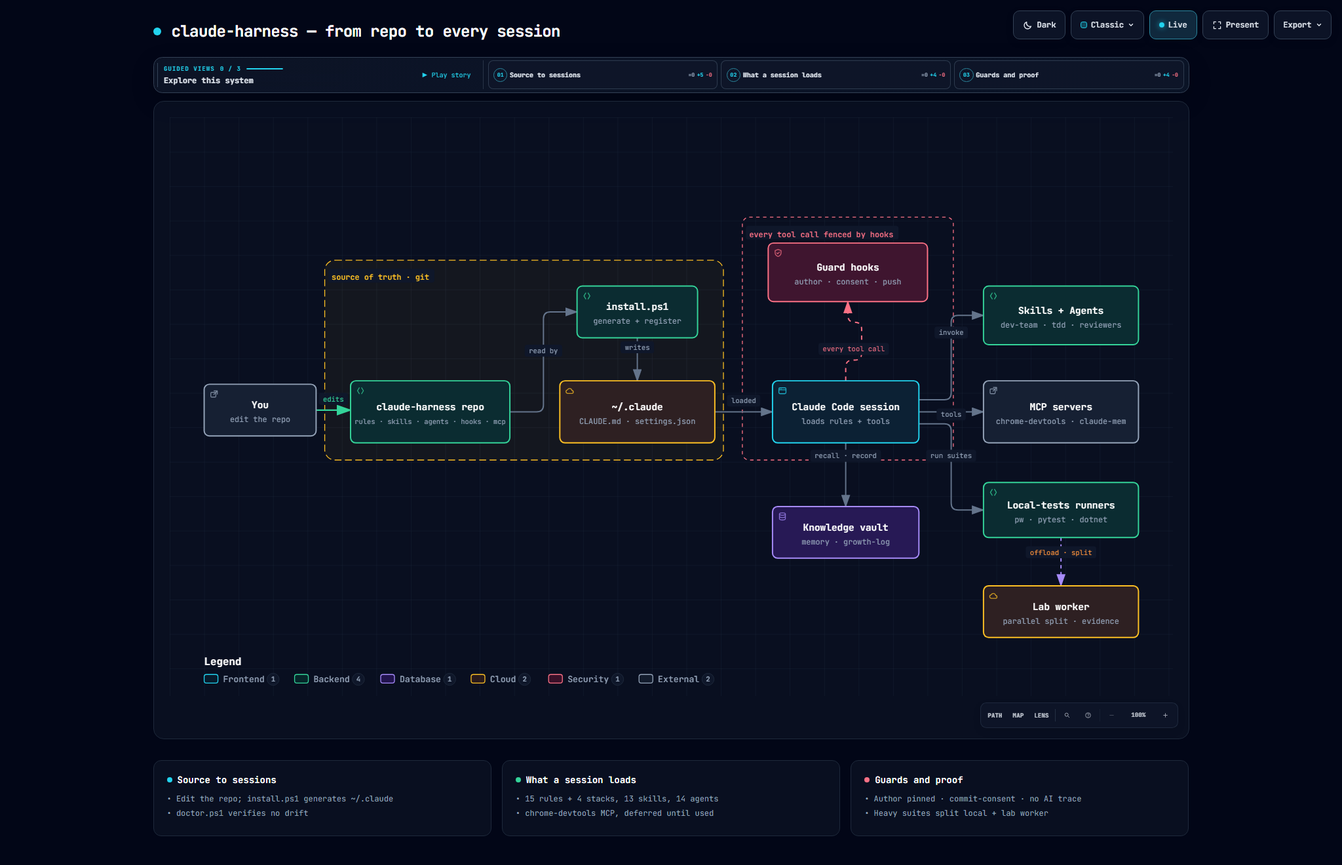
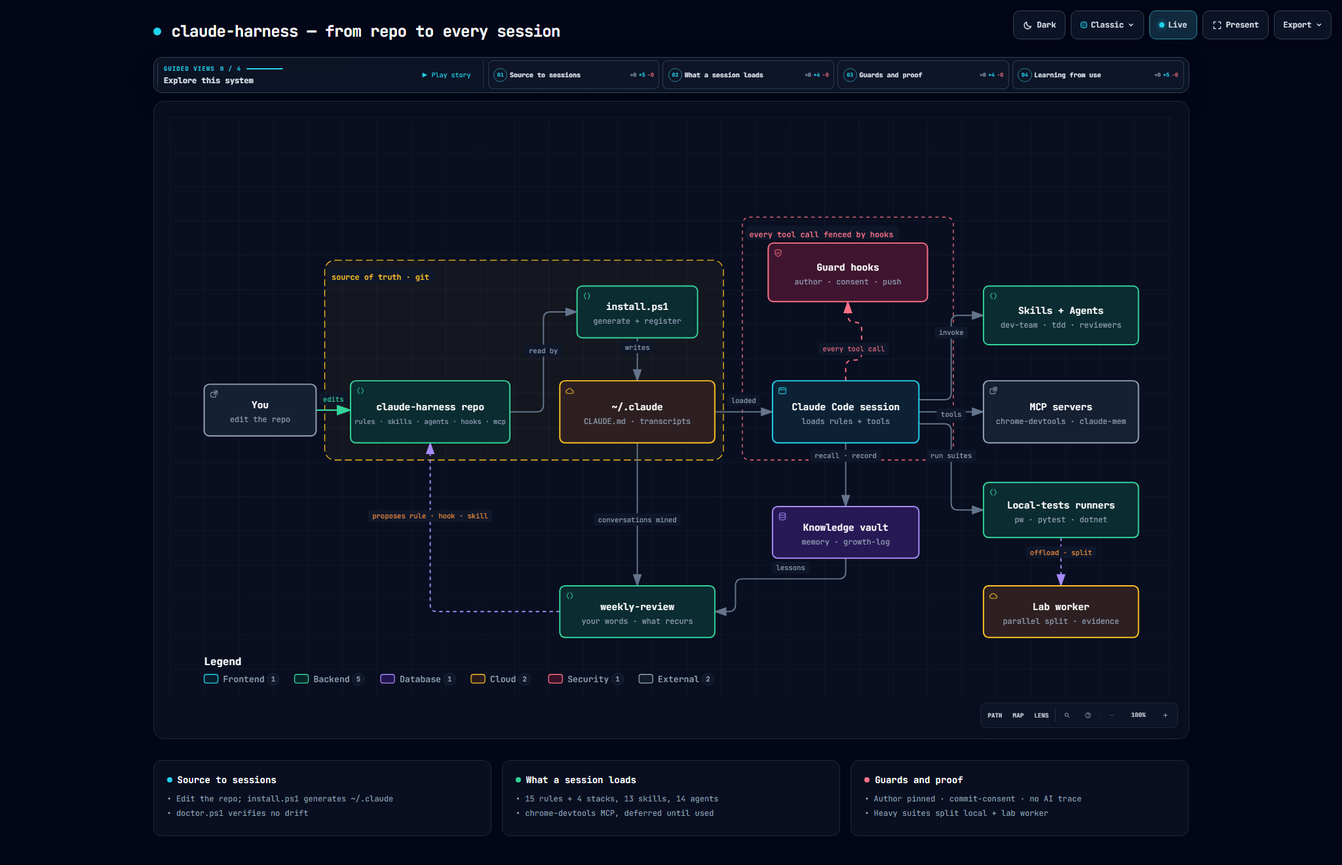
docs(weekly-review): give the miner's run command for cmd too, draw the learning loop (0.22.1)
Windows cmd does not expand ~, so the documented bash path failed there. The
skill and the README now give the cmd form (%USERPROFILE%) next to the
PowerShell one ($HOME).

The architecture diagram now shows the improvement loop: the conversations in
~/.claude and the vault feed weekly-review, which proposes a rule, hook or
skill back to the repo.

diff --git a/docs/assets/harness-architecture.html b/docs/assets/harness-architecture.html
@@ -4959,7 +4959,7 @@
       </div>
     </div>
 
-    <script id="archify-guided-views-data" type="application/json">[{"id":"install","label":"Source to sessions","focus":["author","repo","install","claudedir","session"],"note":"Edit the repo; install.ps1 generates ~/.claude; every session loads it."},{"id":"tools","label":"What a session loads","focus":["session","skills","mcp","runners"],"note":"Rules, skills, agents and MCP servers reach the session."},{"id":"guards","label":"Guards and proof","focus":["session","hooks","runners","worker"],"note":"Hooks fence every tool call; heavy suites split onto the lab worker."}]</script>
+    <script id="archify-guided-views-data" type="application/json">[{"id":"install","label":"Source to sessions","focus":["author","repo","install","claudedir","session"],"note":"Edit the repo; install.ps1 generates ~/.claude; every session loads it."},{"id":"tools","label":"What a session loads","focus":["session","skills","mcp","runners"],"note":"Rules, skills, agents and MCP servers reach the session."},{"id":"guards","label":"Guards and proof","focus":["session","hooks","runners","worker"],"note":"Hooks fence every tool call; heavy suites split onto the lab worker."},{"id":"learn","label":"Learning from use","focus":["session","claudedir","vault","review","repo"],"note":"Weekly, your own words and the vault feed weekly-review, which proposes a rule, hook or skill back to the repo."}]</script>
 
     <script id="archify-i18n-data" type="application/json">{"locale":"en","messages":{"viewer.kind.frontend":"Frontend","viewer.kind.backend":"Backend","viewer.kind.database":"Database","viewer.kind.cloud":"Cloud","viewer.kind.security":"Security","viewer.kind.messagebus":"Message bus","viewer.kind.external":"External","viewer.kind.neutral":"Neutral","viewer.kind.node":"Node","viewer.kind.start":"Start","viewer.kind.active":"Active","viewer.kind.waiting":"Waiting","viewer.kind.decision":"Decision","viewer.kind.success":"Success","viewer.kind.failure":"Failure","viewer.toolbar.actions":"Diagram actions","viewer.theme.toggle.title":"Toggle theme (T)","viewer.theme.toggle":"Toggle color theme","viewer.theme.dark":"Dark","viewer.theme.light":"Light","viewer.preset.choose.title":"Choose visual style (S cycles)","viewer.preset.choose":"Choose visual style","viewer.preset.style":"Style","viewer.preset.menu":"Visual style","viewer.preset.identity":"Visual identity","viewer.preset.cycles":"S cycles","viewer.preset.classic":"Classic","viewer.preset.classic.short":"Classic","viewer.preset.classic.hint":"Stable technical default","viewer.preset.flow":"Signal Flow","viewer.preset.flow.short":"Flow","viewer.preset.flow.hint":"Motion-forward presentation","viewer.preset.blueprint":"Blueprint","viewer.preset.blueprint.hint":"Engineering review","viewer.preset.editorial":"Editorial","viewer.preset.editorial.hint":"Publication and launch notes","viewer.preset.badge.signalFlow":"SIGNAL FLOW","viewer.preset.badge.blueprint":"BLUEPRINT / REV 01","viewer.preset.badge.editorial":"EDITORIAL / FIELD NOTE","viewer.preset.badge.editorialPlate":"ARCHIFY / PLATE 04","viewer.preset.current":"Visual style: {style}. Choose visual style","viewer.motion.live":"Live","viewer.motion.still":"Still","viewer.motion.pause":"Pause motion","viewer.motion.resume":"Resume motion","viewer.motion.reduced":"Motion paused by reduced-motion preference","viewer.motion.hidden":"Motion paused while this page is hidden","viewer.motion.yielding":"Pause motion; currently yielding to {owner}","viewer.motion.yielding.title":"Live preview enabled · yielding to {owner}","viewer.owner.story":"the guided story","viewer.owner.chapter":"the active chapter","viewer.owner.chapterPreview":"the chapter delta preview","viewer.owner.handoff":"the chapter handoff","viewer.owner.route":"Route Probe","viewer.owner.lens":"Semantic Lens","viewer.owner.relationship":"Relationship Preview","viewer.owner.intent":"Intent Trace","viewer.owner.focus":"semantic focus","viewer.owner.legend":"legend preview","viewer.owner.reader":"reader interaction","viewer.present.enter":"Enter presentation stage","viewer.present.enter.title":"Presentation stage (F)","viewer.present.exit":"Exit presentation stage","viewer.present.exit.title":"Exit presentation stage (F or Escape)","viewer.present.present":"Present","viewer.present.exit.label":"Exit","viewer.export.button":"Export","viewer.export.button.title":"Export diagram (E)","viewer.export.diagram":"Export diagram","viewer.export.menu":"Export","viewer.export.subtitle":"Portable, clean outputs","viewer.export.share":"Share","viewer.export.shareCard":"Share Card","viewer.export.routeShareCard":"Route Share Card","viewer.export.reachShareCard":"Reach Share Card","viewer.export.copyShareCard":"Copy Share Card","viewer.export.copyDiagram":"Copy diagram","viewer.export.clipboardPng":"PNG to clipboard","viewer.export.raster":"Raster images","viewer.export.image":"Image","viewer.export.lossless":"Lossless image","viewer.export.compact":"Compact image","viewer.export.modern":"Modern image","viewer.export.vectorMotion":"Vector and motion","viewer.export.vectorMotion.heading":"Vector \u0026 motion","viewer.export.editable":"Editable vector","viewer.export.motion6s":"6s motion","viewer.export.unsupported":"Not supported by this browser","viewer.export.clipboardUnsupported":"Clipboard image write not supported by this browser","viewer.export.clipboardUnsupported.period":"Clipboard image write not supported by this browser.","viewer.export.clipboardUnsupported.short":"Clipboard image write not supported in this browser.","viewer.export.motionUnavailable":"Motion capture unavailable in this browser","viewer.export.webmUnavailable":"WebM unavailable in this browser","viewer.export.failed":"Export failed: {message}","viewer.export.unknownVariant":"Unknown Share Card variant: {variant}","viewer.export.routeRequired":"Trace a route before exporting a Route Share Card","viewer.export.reachRequired":"Trace authored reach before exporting a Reach Share Card","viewer.export.unknown":"unknown","viewer.export.routeFailed":"Route Share Card export failed: {message}","viewer.export.reachFailed":"Reach Share Card export failed: {message}","viewer.export.copyFailed":"Copy failed: {message}","viewer.export.copiedPng":"Copied PNG to clipboard","viewer.export.copiedShare":"Copied Share Card","viewer.export.downloadedShare":"Downloaded Share Card","viewer.export.downloadedRoute":"Downloaded Route Share Card","viewer.export.downloadedReach":"Downloaded Reach Share Card","viewer.export.downloadedWebm":"Downloaded WebM","viewer.export.recording":"Recording 6 seconds of motion…","viewer.export.card.routeSummary.one":"Route: {source} → {target} · {count} directed hop","viewer.export.card.routeSummary.other":"Route: {source} → {target} · {count} directed hops","viewer.export.card.reachSummary":"Authored {direction} from {origin} · {nodes} · {links} · max {hops}","viewer.export.card.node.one":"{count} node","viewer.export.card.node.other":"{count} nodes","viewer.export.card.link.one":"{count} link","viewer.export.card.link.other":"{count} links","viewer.export.card.hop.one":"{count} hop","viewer.export.card.hop.other":"{count} hops","viewer.export.card.routeBadge":"ARCHIFY · ROUTE · {hops}","viewer.export.card.reachBadge":"ARCHIFY · {direction} REACH","viewer.export.card.defaultBadge":"ARCHIFY · {preset} · {theme}","viewer.export.direction.upstream":"Upstream","viewer.export.direction.downstream":"Downstream","viewer.export.error.canvasUnavailable":"Canvas unavailable for {label}","viewer.export.error.contextUnavailable":"2D canvas context unavailable for {label}","viewer.export.error.toBlobUnavailable":"canvas.toBlob unavailable for {label}","viewer.export.error.toBlobNull":"canvas.toBlob returned no data for {label}","viewer.export.error.variantsCombined":"Share Card variants cannot be combined","viewer.export.error.viewerState":"Share Card export could not remove temporary viewer state","viewer.export.error.routeState":"Route Card export could not preserve the resolved route safely","viewer.export.error.reachState":"Reach Card export could not preserve authored reach safely","viewer.export.error.webmRequirements":"WebM motion export requires a trace animation and browser MediaRecorder support","viewer.export.error.mediaRecorder":"MediaRecorder failed","viewer.export.error.emptyWebm":"MediaRecorder produced an empty WebM","viewer.export.error.webmBackground":"SVG background could not be loaded for WebM export","viewer.guided.region":"Guided diagram views","viewer.guided.previous":"Previous guided view","viewer.guided.previous.title":"Previous guided view ([)","viewer.guided.next":"Next guided view","viewer.guided.next.title":"Next guided view (])","viewer.guided.views":"Guided views","viewer.guided.explore":"Explore this system","viewer.guided.intro":"Step through curated paths without changing the source diagram.","viewer.guided.trail":"Story trail","viewer.guided.beat":"Beat","viewer.guided.nextBeat":"Next","viewer.guided.play":"Play guided story","viewer.guided.play.title":"Play guided story (P)","viewer.guided.pause":"Pause guided story","viewer.guided.pause.title":"Pause guided story (P)","viewer.guided.replay":"Replay guided story","viewer.guided.replay.title":"Replay guided story (P)","viewer.guided.playStory":"Play story","viewer.guided.pauseStory":"Pause","viewer.guided.replayStory":"Replay story","viewer.guided.motionUnavailable":"Story playback unavailable while motion is Still","viewer.guided.enableMotion":"Switch motion to Live to play the guided story","viewer.guided.selectBeatLink":"Select a Story Beat to copy its exact link","viewer.guided.copyMoment":"Copy moment","viewer.guided.momentCopied":"Moment link copied","viewer.guided.momentCopyFailed":"Could not copy story moment link","viewer.guided.copied":"Copied","viewer.guided.copyFailed":"Copy failed","viewer.guided.showAll":"Show all","viewer.guided.showAll.aria":"Show entire diagram","viewer.guided.chapters":"Story chapters","viewer.guided.storyTrail":"Story trail for {label}: {count} beats","viewer.guided.chapter.open":"Open chapter {index} of {total}: {label}, {count} stops","viewer.guided.chapter.current":"Current chapter {index} of {total}: {label}, {count} stops","viewer.guided.chapter.selectedNodes":"{count} selected nodes","viewer.guided.chapter.stops":"{count} stops","viewer.guided.chapter.stop.one":"{count} stop","viewer.guided.chapter.stop.other":"{count} stops","viewer.guided.chapter.current.title":"{label} — current chapter, {count} stops","viewer.guided.chapter.delta.expanded":"{stay} stay, {enter} enter, {leave} leave","viewer.guided.chapter.delta.aria":"Open chapter {index} of {total}: {label}. Chapter focus delta: {delta}","viewer.guided.chapter.delta.title":"{label} — {delta} chapter focus","viewer.guided.handoff":"{from} → {to} · via {label}","viewer.guided.share.chapter":"Chapter {index} / {total}","viewer.guided.share.initial":"Chapter 01 / 01","viewer.guided.share.default":"Guided chapter","viewer.guided.state.ready":"Ready","viewer.guided.state.playing":"Playing","viewer.guided.state.settled":"Settled","viewer.guided.state.paused":"Paused","viewer.guided.state.pinned":"Pinned","viewer.guided.state.still":"Still","viewer.guided.share.step":"Step {index} / {total} · {label}","viewer.guided.share.staticMoment":"{step} · Static moment","viewer.guided.share.complete":"{count} steps complete · {note}","viewer.guided.share.settled":"Path settled for reading.","viewer.guided.share.staticPath":"{count} steps · Static path","viewer.guided.share.ready":"{count} steps · Ready","viewer.guided.share.aria":"{state} chapter {index} of {total}: {label}. {beat}. {route}","viewer.guided.beat.start":"Beat {index} / {total} · {label} · starting point","viewer.guided.beat.forward":"Beat {index} / {total} · {from} → {to}","viewer.guided.beat.reverse":"Beat {index} / {total} · {from} → {to} · reverse authored link","viewer.guided.beat.multiple":"Beat {index} / {total} · {from} ⇄ {to} · {count} authored links","viewer.guided.beat.group":"Beat {index} / {total} · {from} · {to} · grouped · no direct link","viewer.guided.beat.aria.prefix":"Story beat {index} of {total}: {label}. ","viewer.guided.beat.aria.start":"Starting point.","viewer.guided.beat.aria.forward":"From {from} through one authored forward relationship.","viewer.guided.beat.aria.reverse":"From {from}; the authored relationship points from {to} to {from}.","viewer.guided.beat.aria.multiple":"From {from} through {count} authored relationships; shown without arbitrary motion.","viewer.guided.beat.aria.group":"Grouped from {from} with no direct authored relationship.","viewer.guided.caption.start":"Starting point","viewer.guided.caption.grouped":"Grouped transition · no direct authored link","viewer.guided.caption.more":" +{count} more","viewer.guided.caption.reverse":"Reverse authored relationship","viewer.guided.caption.relationships":"{count} authored relationships","viewer.guided.caption.relationship":"Authored relationship","viewer.guided.caption.direction":"authored direction: {from} → {to}","viewer.guided.caption.starting":"Authored starting point","viewer.guided.beatLink":"Copy link to current story moment: Beat {index} of {total}: {label}","viewer.guided.noStory":"This diagram has no authored guided story.","viewer.guide.eyebrow":"Diagram guide","viewer.guide.close":"Close diagram guide","viewer.guide.inspecting":"Inspecting compiled semantics","viewer.guide.actions":"Diagram exploration actions","viewer.guide.find":"Find any node","viewer.guide.find.hint":"Search labels, responsibilities, kinds, and stable IDs.","viewer.guide.route":"Trace a route","viewer.guide.route.aria":"Trace a directed route","viewer.guide.route.hint":"Ask how two semantic nodes connect in authored direction.","viewer.guide.map":"See the whole system","viewer.guide.map.hint":"Open Semantic Radar with a live viewport and stable nodes.","viewer.guide.lens":"Compare semantic kinds","viewer.guide.lens.hint":"Count roles, reveal their traffic, and compare direct authored links.","viewer.guide.story":"Play the guided story","viewer.guide.story.hint":"Walk the authored chapters and real relationships.","viewer.guide.present":"Enter Presentation Stage","viewer.guide.present.hint":"Give the live diagram the viewport without changing export.","viewer.guide.shortcuts":"Additional keyboard shortcuts","viewer.guide.shortcut.export":"Export","viewer.guide.shortcut.theme":"Theme","viewer.guide.shortcut.style":"Style","viewer.guide.shortcut.reset":"Reset","viewer.guide.shortcut.zoomIn":"Zoom in","viewer.guide.shortcut.zoomOut":"Zoom out","viewer.guide.shortcut.close":"Close","viewer.guide.facts":"{nodes} · {relationships} · {views}","viewer.guide.fact.node.one":"{count} semantic node","viewer.guide.fact.node.other":"{count} semantic nodes","viewer.guide.fact.relationship.one":"{count} relationship","viewer.guide.fact.relationship.other":"{count} relationships","viewer.guide.fact.view.one":"{count} guided view","viewer.guide.fact.view.other":"{count} guided views","viewer.guide.story.available.one":"Walk {count} authored chapter and its real relationships.","viewer.guide.story.available.other":"Walk {count} authored chapters and their real relationships.","viewer.guide.story.unavailable":"No authored guided story in this diagram.","viewer.guide.open":"Open diagram guide","viewer.guide.noStory":"This diagram has no authored guided story.","viewer.finder.title":"Find a node","viewer.finder.close":"Close node finder","viewer.finder.placeholder":"Search labels or IDs","viewer.finder.search":"Search diagram nodes","viewer.finder.results":"Diagram nodes","viewer.finder.empty":"No matching nodes","viewer.finder.result.focus":"Focus {label}","viewer.finder.result.routeStart":"Choose {label} as route start","viewer.finder.result.routeTarget":"Choose {label} as route destination, {links}","viewer.finder.status.empty":"No matching nodes","viewer.finder.status.count.one":"{count} matching node","viewer.finder.status.count.other":"{count} matching nodes","viewer.finder.noun.nodes":"nodes","viewer.finder.link.one":"{count} link","viewer.finder.link.other":"{count} links","viewer.finder.result.focus.one":"Focus {label}, {count} related connection","viewer.finder.result.focus.other":"Focus {label}, {count} related connections","viewer.finder.status.filtered":"{visible} of {available} {noun}","viewer.finder.status.all":"{available} {noun}","viewer.passport.eyebrow":"Semantic passport","viewer.passport.metadata":"Node metadata","viewer.passport.evidence":"Verified source evidence","viewer.passport.verified":"Verified source","viewer.passport.reach":"Authored reach","viewer.passport.reach.trace":"Trace authored reachability","viewer.passport.upstream":"Upstream","viewer.passport.downstream":"Downstream","viewer.passport.upstream.trace":"Trace upstream authored reachability","viewer.passport.downstream.trace":"Trace downstream authored reachability","viewer.passport.close":"Close semantic passport","viewer.passport.copy":"Copy link","viewer.passport.copy.focus":"Copy link to focused node","viewer.passport.relations":"Relations","viewer.passport.relations.show":"Show connected relationships","viewer.passport.relations.hide":"Hide connected relationships","viewer.passport.relations.list":"Connected relationships","viewer.passport.copyRelation":"Copy relation","viewer.passport.copyNode":"Copy node","viewer.passport.copyPinned":"Copy link to pinned relationship","viewer.passport.copySource":"Copy link to source node","viewer.passport.copy.focused.success":"Focused node link copied","viewer.passport.copy.pinned.success":"Pinned relationship link copied","viewer.passport.copy.focused.failed":"Could not copy focused node link","viewer.passport.copy.pinned.failed":"Could not copy pinned relationship link","viewer.passport.relationship.none":"No connected relationships","viewer.passport.relationship.count.one":"{count} relation","viewer.passport.relationship.count.other":"{count} relations","viewer.passport.relationship.show.one":"Show {count} connected relationship","viewer.passport.relationship.show.other":"Show {count} connected relationships","viewer.passport.relationship.summary":"{out} outgoing · {in} incoming{loops}","viewer.passport.relationship.loops":" · {count} loop","viewer.passport.relationship.explorer":"Direct relationship explorer","viewer.passport.relationship.help":"Use arrow keys to explore relationships. Press Enter or Space to pin details; Escape clears.","viewer.passport.relationship.loopsBack":"loops back","viewer.passport.relationship.connectsTo":"connects to","viewer.passport.relationship.connectsFrom":"connects from","viewer.passport.relationship.pinned":"Pinned relationship · {from} → {to} · {label}","viewer.passport.relationship.inspect":"Inspect relationship {index} of {total}: {from} to {to}, {label}. Press Enter for details.","viewer.passport.relationship.group.out":"Outgoing","viewer.passport.relationship.group.in":"Incoming","viewer.passport.relationship.group.loop":"Self loops","viewer.passport.relationship.row":"{group}: {relationship}, {neighbor}","viewer.passport.relationship.direction.out":"OUT →","viewer.passport.relationship.direction.in":"← IN","viewer.passport.relationship.direction.loop":"LOOP","viewer.passport.sourceCount.one":"{count} verified source reference","viewer.passport.sourceCount.other":"{count} verified source references","viewer.passport.sourceMarker":"SRC","viewer.passport.beacon.one":"{count} verified source; focus this node to inspect","viewer.passport.beacon.other":"{count} verified sources; focus this node to inspect","viewer.passport.repository.open":"Open verified repository revision {revision}","viewer.passport.source.open":"Open verified source {path} at revision {revision}","viewer.passport.source.openLink":"Open ↗","viewer.passport.reach.upstream.one":"Trace {count} upstream authored node","viewer.passport.reach.upstream.other":"Trace {count} upstream authored nodes","viewer.passport.reach.downstream.one":"Trace {count} downstream authored node","viewer.passport.reach.downstream.other":"Trace {count} downstream authored nodes","viewer.passport.reach.noUpstream":"No upstream authored nodes","viewer.passport.reach.noDownstream":"No downstream authored nodes","viewer.passport.reach.status":"{direction} · {nodes} nodes · {links} links · max {hops} hops","viewer.route.eyebrow":"Route probe","viewer.route.start":"Choose a start node","viewer.route.start.find":"Find start","viewer.route.start.find.aria":"Find a route start","viewer.route.copy":"Copy link","viewer.route.copy.aria":"Copy link to traced route","viewer.route.clear":"Clear","viewer.route.clear.aria":"Clear route probe","viewer.route.traced":"Traced route","viewer.route.pickTwo":"Pick two semantic nodes on the diagram","viewer.route.pickOne":"Pick a semantic node on the diagram","viewer.route.controls":"Route journey controls","viewer.route.previous":"Previous route position","viewer.route.play":"Play route journey","viewer.route.pause":"Pause route journey","viewer.route.replay":"Replay route journey","viewer.route.next":"Next route position","viewer.route.journey":"Journey","viewer.route.pause.label":"Pause","viewer.route.replay.label":"Replay","viewer.route.overview":"Overview","viewer.route.overview.aria":"Show complete route overview","viewer.route.instructions":"Choose the source, then the destination. Direction matters.","viewer.route.destination":"Choose a destination from {label}","viewer.route.destination.find":"Find target","viewer.route.destination.find.aria":"Find a reachable route destination","viewer.route.differentDestination":"Choose a different destination","viewer.route.distinct":"A route needs two distinct semantic nodes.","viewer.route.unreachable":"No directed route to {label}","viewer.route.unreachable.detail":"{target} is not reachable from {source}. Pick a highlighted destination.","viewer.route.start.instructions":"Select the source. The next step will reveal only directed destinations.","viewer.route.copy.success":"Traced route link copied","viewer.route.copy.failed":"Could not copy traced route link","viewer.route.position":"Route position {index} of {total}: {label}","viewer.route.step":"Step {index} of {total} · {phase} · {label}","viewer.route.motionRequired":"Automatic journey requires Live motion","viewer.route.trigger.clear":"Clear traced route","viewer.route.overview.status":"{nodes} · {hops} · shortest authored route","viewer.route.overview.node.one":"{count} node","viewer.route.overview.node.other":"{count} nodes","viewer.route.overview.hop.one":"{count} directed hop","viewer.route.overview.hop.other":"{count} directed hops","viewer.route.phase.playing":"Playing","viewer.route.phase.complete":"Complete","viewer.route.phase.inspecting":"Inspecting","viewer.route.destination.count.one":"{count} directed destination available. Pick a highlighted node.","viewer.route.destination.count.other":"{count} directed destinations available. Pick a highlighted node.","viewer.route.noOutgoing":"No outgoing route starts here. Clear and choose another source.","viewer.route.result.title":"{source} to {target}","viewer.route.finder.source.title":"Choose route start","viewer.route.finder.source.placeholder":"Search route sources","viewer.route.finder.source.empty":"No matching route sources","viewer.route.finder.source.results":"Nodes that can start a route","viewer.route.finder.source.noun":"route sources","viewer.route.finder.source.badge":"start","viewer.route.finder.target.title":"Destination from {label}","viewer.route.finder.target.placeholder":"Search reachable destinations","viewer.route.finder.target.empty":"No matching reachable destinations","viewer.route.finder.target.results":"Reachable route destinations","viewer.route.finder.target.noun":"reachable destinations","viewer.route.hop.one":"{count} hop","viewer.route.hop.other":"{count} hops","viewer.lens.eyebrow":"Semantic lens","viewer.lens.title":"Compare system roles","viewer.lens.close":"Close semantic lens","viewer.lens.instruction":"Choose up to two semantic kinds. One reveals its real traffic; two compare only direct authored relationships.","viewer.lens.kinds":"Semantic kinds","viewer.lens.choose":"Choose a kind to inspect its nodes and touching relationships.","viewer.lens.copy":"Copy link to semantic lens","viewer.lens.clear":"Clear semantic lens","viewer.lens.open":"Open semantic lens","viewer.lens.openActive":"Open active semantic lens","viewer.lens.legend":"Semantic legend","viewer.lens.legend.inspect.one":"Inspect {label}, {count} node","viewer.lens.legend.inspect.other":"Inspect {label}, {count} nodes","viewer.lens.kind.count.one":"{label}, {count} node","viewer.lens.kind.count.other":"{label}, {count} nodes","viewer.lens.compare.one":"{first} → {second}: {forward} · {second} → {first}: {reverse} · {count} direct relationship","viewer.lens.compare.other":"{first} → {second}: {forward} · {second} → {first}: {reverse} · {count} direct relationships","viewer.lens.single":"{nodes} · {relationships} · connected peers remain visible","viewer.lens.node.one":"{count} {label} node","viewer.lens.node.other":"{count} {label} nodes","viewer.lens.relationship.one":"{count} touching relationship","viewer.lens.relationship.other":"{count} touching relationships","viewer.radar.title":"Semantic radar","viewer.radar.building":"Building overview","viewer.radar.openFull":"Open full semantic radar","viewer.radar.open":"Open radar","viewer.radar.close":"Close semantic radar","viewer.radar.surface":"Diagram overview. Click a node to focus it, or use arrow keys to pan.","viewer.radar.click":"Click node","viewer.radar.drag":"Drag to pan","viewer.radar.space":"Semantic radar needs more MAP space.","viewer.radar.nodes":"Semantic diagram radar nodes","viewer.radar.focus":"Focus {label} from Semantic Radar","viewer.radar.status":"{count} nodes · {viewport}","viewer.radar.fullMap":"{count} nodes · full map","viewer.radar.compacted":"Radar compacted to avoid covering the Semantic Passport or MAP controls.","viewer.radar.cancelWaiting":"Cancel semantic radar waiting for more MAP space","viewer.radar.needsSpace":"Semantic radar needs more visible MAP space","viewer.radar.viewport.full":"full map","viewer.radar.viewport.width":"{percent}% width","viewer.radar.viewport.scale":"{percent}% viewport","viewer.nav.controls":"Diagram view controls","viewer.nav.route":"Trace a directed route","viewer.nav.route.title":"Trace route (R)","viewer.nav.route.short":"PATH","viewer.nav.radar":"Open semantic radar","viewer.nav.radar.title":"Semantic radar (M)","viewer.nav.radar.short":"MAP","viewer.nav.lens":"Open semantic lens","viewer.nav.lens.title":"Semantic lens (L)","viewer.nav.lens.short":"LENS","viewer.nav.find":"Find a node","viewer.nav.find.title":"Find a node (/)","viewer.nav.guide":"Open diagram guide","viewer.nav.guide.title":"Diagram guide (?)","viewer.nav.zoomOut":"Zoom out","viewer.nav.zoomOut.title":"Zoom out (-)","viewer.nav.reset":"Reset diagram view","viewer.nav.reset.title":"Reset view (0)","viewer.nav.read":"READ","viewer.nav.zoomIn":"Zoom in","viewer.nav.zoomIn.title":"Zoom in (+)","viewer.nav.camera":"{hint}. Reset diagram view","viewer.nav.camera.title":"{semantic}{hint} · reset view (0)","viewer.nav.camera.semantic":"Semantic camera active · ","viewer.nav.level.map":"MAP","viewer.nav.level.read":"READ","viewer.nav.level.full":"FULL","viewer.nav.level.auto":"AUTO","viewer.nav.detail.map":"Zoom in to reveal relationship labels and node context","viewer.nav.detail.read":"Zoom in again to reveal tags and annotations","viewer.nav.detail.full":"Full diagram detail","viewer.intent.summary":"{label}. {out} outgoing, {in} incoming{loops}. {total} connections. Press Enter for details.","viewer.intent.loops":", {count} self loop","viewer.common.copied":"Copied","viewer.common.copyFailed":"Copy failed","viewer.common.copyLink":"Copy link","viewer.common.clear":"Clear","viewer.common.close":"Close"}}</script>
     <div class="guided-views no-print" id="guided-views" hidden aria-label="Guided diagram views">
@@ -5045,6 +5045,9 @@
         <path data-edge-from="session" data-edge-to="runners" data-edge-label="run suites" data-edge-key="7" data-edge-id="session-runners" data-composition-points="870,356;907.5,356;907.5,456;945,456" d="M 870 356 L 899.5 356 Q 907.5 356 907.5 364 L 907.5 448 Q 907.5 456 915.5 456 L 945 456" class="a-default" data-animate="edge" style="--step:7" stroke-width="1.5" marker-end="url(#arrowhead)"/>
         <path data-edge-from="runners" data-edge-to="worker" data-edge-label="offload · split" data-edge-key="8" data-edge-id="runners-worker" data-composition-points="1035,488;1035,544" d="M 1035 488 L 1035 544" class="a-dashed" data-animate="edge" style="--step:8" stroke-width="1.5" marker-end="url(#arrowhead-dashed)"/>
         <path data-edge-from="session" data-edge-to="vault" data-edge-label="recall · record" data-edge-key="9" data-edge-id="session-vault" data-composition-points="785,378;785,452" d="M 785 378 L 785 452" class="a-default" data-animate="edge" style="--step:9" stroke-width="1.5" marker-end="url(#arrowhead)"/>
+        <path data-edge-from="claudedir" data-edge-to="review" data-edge-label="conversations mined" data-edge-key="10" data-edge-id="claudedir-review" data-composition-points="543,378;543,544" d="M 543 378 L 543 544" class="a-default" data-animate="edge" style="--step:10" stroke-width="1.5" marker-end="url(#arrowhead)"/>
+        <path data-edge-from="vault" data-edge-to="review" data-edge-label="lessons" data-edge-key="11" data-edge-id="vault-review" data-composition-points="785,512;785,536;657,536;657,574;633,574" d="M 785 512 L 785 528 Q 785 536 777 536 L 665 536 Q 657 536 657 544 L 657 566 Q 657 574 649 574 L 633 574" class="a-default" data-animate="edge" style="--step:11" stroke-width="1.5" marker-end="url(#arrowhead)"/>
+        <path data-edge-from="review" data-edge-to="repo" data-edge-label="proposes rule · hook · skill" data-edge-key="12" data-edge-id="review-repo" data-composition-points="453,574;302.5,574;302.5,378" d="M 453 574 L 310.5 574 Q 302.5 574 302.5 566 L 302.5 378" class="a-dashed" data-animate="edge" style="--step:12" stroke-width="1.5" marker-end="url(#arrowhead-dashed)"/>
 
         <!-- Components -->
         <g id="node-author" data-node-id="author" data-node-label="You" tabindex="0" role="button" aria-label="Focus You, edit the repo, Architecture component" aria-pressed="false" data-node-kind="external" data-node-sublabel="edit the repo" data-node-context="Architecture component">
@@ -5082,15 +5085,15 @@
         <text data-detail="context" x="543" y="240" class="t-muted" font-size="9" text-anchor="middle">generate + register</text>
         </g>
 
-        <g id="node-claudedir" data-node-id="claudedir" data-node-label="~/.claude" tabindex="0" role="button" aria-label="Focus ~/.claude, CLAUDE.md · settings.json, Architecture component" aria-pressed="false" data-node-kind="cloud" data-node-sublabel="CLAUDE.md · settings.json" data-node-context="Architecture component">
-          <title>~/.claude · CLAUDE.md · settings.json · Architecture component</title>
+        <g id="node-claudedir" data-node-id="claudedir" data-node-label="~/.claude" tabindex="0" role="button" aria-label="Focus ~/.claude, CLAUDE.md · transcripts, Architecture component" aria-pressed="false" data-node-kind="cloud" data-node-sublabel="CLAUDE.md · transcripts" data-node-context="Architecture component">
+          <title>~/.claude · CLAUDE.md · transcripts · Architecture component</title>
           <rect x="453" y="306" width="180" height="72" rx="6" class="c-mask"/>
           <rect x="453" y="306" width="180" height="72" rx="6" class="c-cloud" data-animate="node" style="--step:3" stroke-width="1.5"/>
           <g aria-hidden="true" data-semantic-sigil="cloud" class="semantic-sigil s-cloud" transform="translate(459 312) scale(0.6875)">
             <path d="M4.3 12.5h7.3a2.4 2.4 0 0 0 .2-4.8 4 4 0 0 0-7.5-1.3A3.1 3.1 0 0 0 4.3 12.5Z"/>
           </g>
           <text data-node-label="" data-detail-anchor="" x="543" y="340" class="t-primary" font-size="11" font-weight="600" text-anchor="middle">~/.claude</text>
-        <text data-detail="context" x="543" y="356" class="t-muted" font-size="9" text-anchor="middle">CLAUDE.md · settings.json</text>
+        <text data-detail="context" x="543" y="356" class="t-muted" font-size="9" text-anchor="middle">CLAUDE.md · transcripts</text>
         </g>
 
         <g id="node-session" data-node-id="session" data-node-label="Claude Code session" tabindex="0" role="button" aria-label="Focus Claude Code session, loads rules + tools, every tool call fenced by hooks" aria-pressed="false" data-node-kind="frontend" data-node-sublabel="loads rules + tools" data-node-context="every tool call fenced by hooks">
@@ -5178,6 +5181,18 @@
         <text data-detail="context" x="785" y="496" class="t-muted" font-size="9" text-anchor="middle">memory · growth-log</text>
         </g>
 
+        <g id="node-review" data-node-id="review" data-node-label="weekly-review" tabindex="0" role="button" aria-label="Focus weekly-review, your words · what recurs, Architecture component" aria-pressed="false" data-node-kind="backend" data-node-sublabel="your words · what recurs" data-node-tag="weekly" data-node-context="Architecture component">
+          <title>weekly-review · your words · what recurs · Architecture component · weekly</title>
+          <rect x="453" y="544" width="180" height="60" rx="6" class="c-mask"/>
+          <rect x="453" y="544" width="180" height="60" rx="6" class="c-backend" data-animate="node" style="--step:11" stroke-width="1.5"/>
+          <g aria-hidden="true" data-semantic-sigil="backend" class="semantic-sigil s-backend" transform="translate(459 550) scale(0.6875)">
+            <path d="M6 3 3 8l3 5M10 3l3 5-3 5"/>
+          </g>
+          <text data-node-label="" data-detail-anchor="" x="543" y="572" class="t-primary" font-size="11" font-weight="600" text-anchor="middle">weekly-review</text>
+        <text data-detail="context" x="543" y="588" class="t-muted" font-size="9" text-anchor="middle">your words · what recurs</text>
+        <text data-detail="fine" x="543" y="596" class="t-backend" font-size="7" text-anchor="middle">weekly</text>
+        </g>
+
         <!-- Connection labels -->
         <g data-detail="context" data-edge-from="author" data-edge-to="repo" data-edge-label="edits" data-edge-key="0" data-edge-id="author-repo">
           <rect x="173" y="320" width="34" height="14" rx="3" class="c-mask"/>
@@ -5218,6 +5233,18 @@
         <g data-detail="context" data-edge-from="session" data-edge-to="vault" data-edge-label="recall · record" data-edge-key="9" data-edge-id="session-vault">
           <rect x="744" y="386" width="82" height="14" rx="3" class="c-mask"/>
           <text x="785" y="396" class="t-muted" font-size="8" text-anchor="middle">recall · record</text>
+        </g>
+        <g data-detail="context" data-edge-from="claudedir" data-edge-to="review" data-edge-label="conversations mined" data-edge-key="10" data-edge-id="claudedir-review">
+          <rect x="492.4" y="460" width="101.2" height="14" rx="3" class="c-mask"/>
+          <text x="543" y="470" class="t-muted" font-size="8" text-anchor="middle">conversations mined</text>
+        </g>
+        <g data-detail="context" data-edge-from="vault" data-edge-to="review" data-edge-label="lessons" data-edge-key="11" data-edge-id="vault-review">
+          <rect x="699.2" y="516" width="43.6" height="14" rx="3" class="c-mask"/>
+          <text x="721" y="526" class="t-muted" font-size="8" text-anchor="middle">lessons</text>
+        </g>
+        <g data-detail="context" data-edge-from="review" data-edge-to="repo" data-edge-label="proposes rule · hook · skill" data-edge-key="12" data-edge-id="review-repo">
+          <rect x="230.3" y="456" width="144.4" height="14" rx="3" class="c-mask"/>
+          <text x="302.5" y="466" class="t-messagebus" font-size="8" text-anchor="middle">proposes rule · hook · skill</text>
         </g>
 
         <!-- Boundary labels (foreground masks keep routes out of titles) -->

diff --git a/README.md b/README.md
@@ -240,7 +240,21 @@ it writes for a clean uninstall. Re-run any time — it's idempotent.
 
 **7. Keep it sharp** — end each session with a one-line lesson in a growth log; run
 the weekly review to promote what recurs — in the log and in your conversations —
-into a rule or a skill.
+into a rule or a skill. Inside Claude Code, run `/weekly-review`. To see the
+conversation digest on its own (`~` does not work in `cmd`):
+
+```powershell
+# PowerShell
+python -I "$HOME\.claude\skills\weekly-review\scripts\mine_sessions.py" extract --growth-log "<vault>\growth-log.md"
+```
+
+```bat
+:: cmd
+python -I "%USERPROFILE%\.claude\skills\weekly-review\scripts\mine_sessions.py" extract --growth-log "<vault>\growth-log.md"
+```
+
+It keeps only what you typed (tool output and harness text dropped, secrets masked).
+Add `--since YYYY-MM-DD` to choose the start, or `--out digest.md` to save it.
 
 ---
 

diff --git a/skills/weekly-review/SKILL.md b/skills/weekly-review/SKILL.md
@@ -37,6 +37,8 @@ The window starts at the latest `--- reviewed <date>` divider in the growth log
 ```
 python -I ~/.claude/skills/weekly-review/scripts/mine_sessions.py extract --growth-log <vault>\growth-log.md --out <vault>\raw\sessions\<YYYY-MM-DD>-owner-messages.md
 ```
+`~` works in bash and PowerShell, not in Windows `cmd`. When the owner runs it by
+hand from `cmd`, write the path as `"%USERPROFILE%\.claude\skills\weekly-review\scripts\mine_sessions.py"`.
 It keeps only what the owner typed (no tool output, harness reminders, subagent
 briefs, compaction summaries, claude-mem's own prompts or pasted material), masks
 secrets, and groups by project. Read the digest **yourself** — a week is typically
